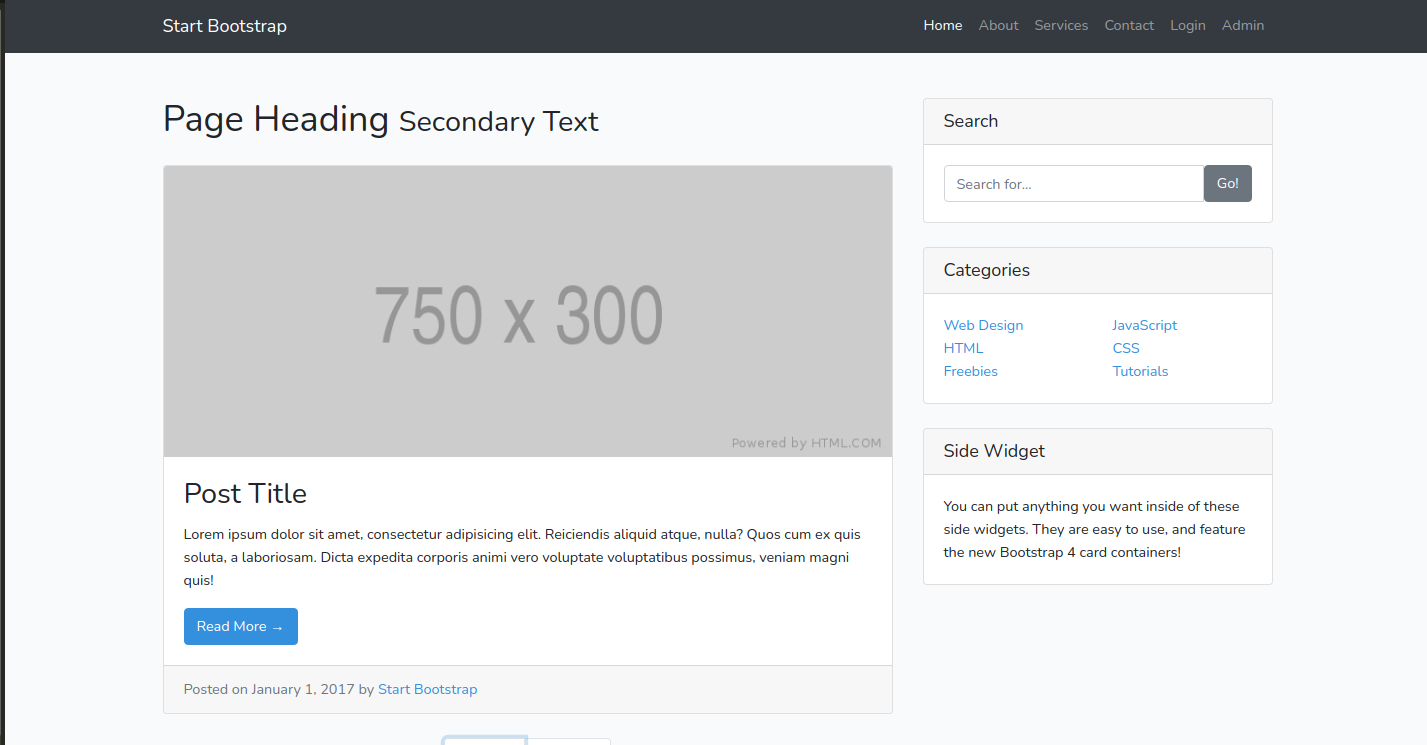
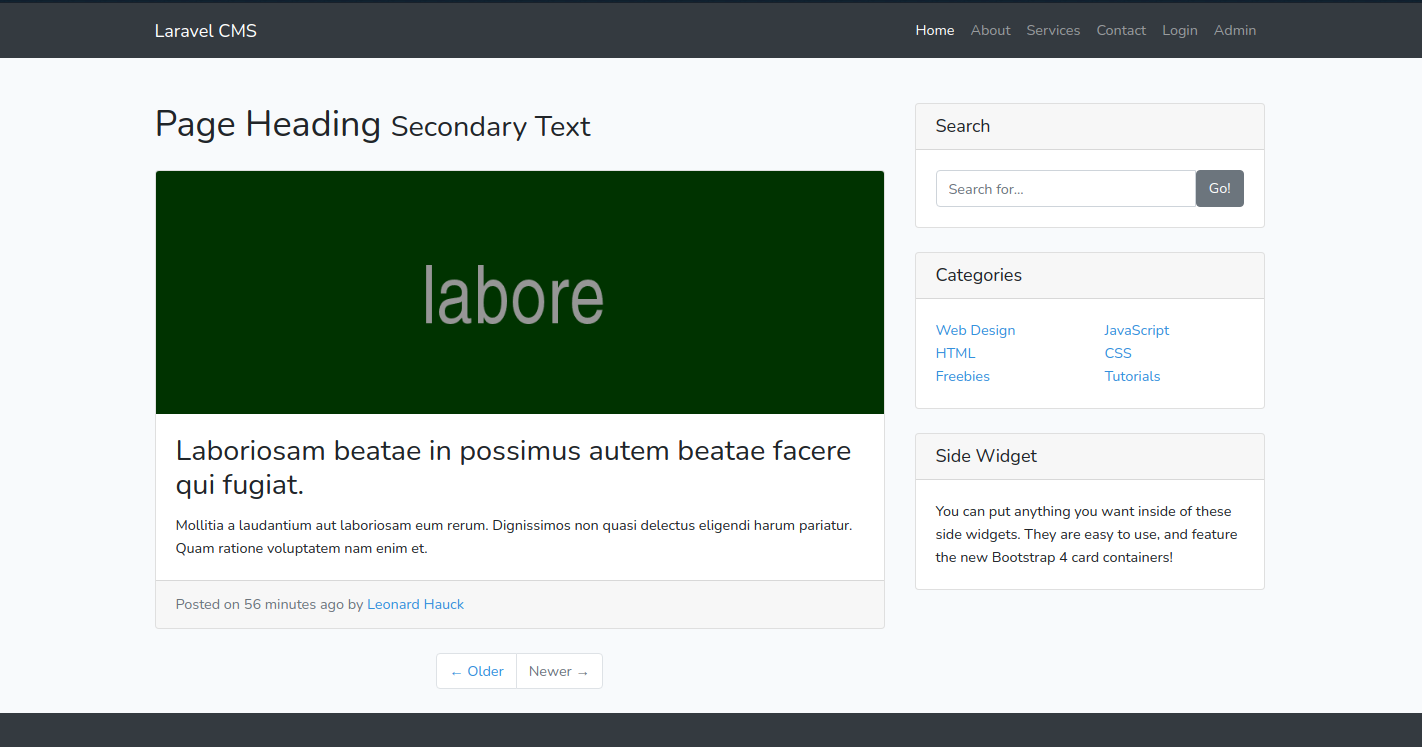
Creating a post from admin - Part 1

diff --git a/resources/views/components/admin-master.blade.php b/resources/views/components/admin-master.blade.php
@@ -9,7 +9,7 @@
   <meta name="description" content="">
   <meta name="author" content="">
 
-  <title>SB Admin 2 - Blank</title>
+  <title>Laravel CMS - Admin</title>
 
   <!-- Custom fonts for this template-->
   <link href="{{asset('vendor/fontawesome-free/css/all.min.css')}}" rel="stylesheet" type="text/css">
@@ -33,7 +33,7 @@
         <div class="sidebar-brand-icon rotate-n-15">
           <i class="fas fa-laugh-wink"></i>
         </div>
-        <div class="sidebar-brand-text mx-3">SB Admin <sup>2</sup></div>
+        <div class="sidebar-brand-text mx-3">Laravel <sup>CMS</sup></div>
       </a>
 
       <!-- Divider -->
@@ -41,7 +41,7 @@
 
       <!-- Nav Item - Dashboard -->
       <li class="nav-item">
-        <a class="nav-link" href="index.html">
+        <a class="nav-link" href="{{route('admin.index')}}">
           <i class="fas fa-fw fa-tachometer-alt"></i>
           <span>Dashboard</span></a>
       </li>
@@ -55,19 +55,7 @@
       </div>
 
       <!-- Nav Item - Pages Collapse Menu -->
-      <li class="nav-item">
-        <a class="nav-link collapsed" href="#" data-toggle="collapse" data-target="#collapseTwo" aria-expanded="true" aria-controls="collapseTwo">
-          <i class="fas fa-fw fa-cog"></i>
-          <span>Components</span>
-        </a>
-        <div id="collapseTwo" class="collapse" aria-labelledby="headingTwo" data-parent="#accordionSidebar">
-          <div class="bg-white py-2 collapse-inner rounded">
-            <h6 class="collapse-header">Custom Components:</h6>
-            <a class="collapse-item" href="buttons.html">Buttons</a>
-            <a class="collapse-item" href="cards.html">Cards</a>
-          </div>
-        </div>
-      </li>
+      <x-admin-sidebar-posts-links></x-admin-sidebar-posts-links>
 
       <!-- Nav Item - Utilities Collapse Menu -->
       <li class="nav-item">

diff --git a/resources/views/admin/posts/create.blade.php b/resources/views/admin/posts/create.blade.php
@@ -1,0 +1,26 @@
+<x-admin-master>
+	@section('content')
+		<h1>Create Post</h1>
+
+		<form method="POST" action="{{route('post.store')}}" enctype="multipart/form-data">
+			@csrf
+			<div class="form-group">
+				<label for="title">Title</label>
+				<input class="form-control" id="title" name="title" placeholder="Enter title"></input>				
+			</div>
+
+			<div class="form-group">
+				<label for="post-image">File</label>
+				<input class="form-control-file" type="file" name="post-image" id="post-image"></input>
+			</div>
+
+			<div class="form-group">
+				<label for="body">Content</label>
+				<textarea class="form-control" id="body" name="body"></textarea>
+			</div>
+
+			<button type="submit" class="btn btn-primary">Submit</button>
+
+		</form>
+	@endsection
+</x-admin-master>

diff --git a/routes/web.php b/routes/web.php
@@ -6,6 +6,16 @@ Auth::routes();
 
 Route::get('/', [App\Http\Controllers\HomeController::class, 'index'])->name('home');
 
-Route::get('/admin', [App\Http\Controllers\AdminController::class, 'index'])->name('admin.index');
-
 Route::get('/post/{post}', [App\Http\Controllers\PostController::class, 'show'])->name('post');
+
+
+
+Route::middleware('auth')->group(function(){
+
+	Route::get('/admin', [App\Http\Controllers\AdminController::class, 'index'])->name('admin.index');
+
+	Route::post('/admin/post', [App\Http\Controllers\PostController::class, 'store'])->name('post.store');
+
+	Route::get('/admin/post/create', [App\Http\Controllers\PostController::class, 'create'])->name('post.create');
+
+});

diff --git a/resources/views/components/admin-sidebar-posts-links.blade.php b/resources/views/components/admin-sidebar-posts-links.blade.php
@@ -1,0 +1,13 @@
+<li class="nav-item">
+  <a class="nav-link collapsed" href="#" data-toggle="collapse" data-target="#collapseTwo" aria-expanded="true" aria-controls="collapseTwo">
+    <i class="fas fa-fw fa-blog"></i>
+    <span>Posts</span>
+  </a>
+  <div id="collapseTwo" class="collapse" aria-labelledby="headingTwo" data-parent="#accordionSidebar">
+    <div class="bg-white py-2 collapse-inner rounded">
+      <h6 class="collapse-header">Posts</h6>
+      <a class="collapse-item" href="{{route('post.create')}}">Create a Post</a>
+      <a class="collapse-item" href="cards.html">Cards</a>
+    </div>
+  </div>
+</li>

diff --git a/database/seeders/DatabaseSeeder.php b/database/seeders/DatabaseSeeder.php
@@ -16,7 +16,7 @@ class DatabaseSeeder extends Seeder
         // \App\Models\User::factory(10)->create(); // works
 
 
-        \App\Models\Post::factory(1)->create(); // works
+        \App\Models\Post::factory(10)->create(); // works
 
 
         // factory('App\User', 10)->create(); // this fucking shit does not work because Laravel sucks

diff --git a/app/Http/Controllers/PostController.php b/app/Http/Controllers/PostController.php
@@ -11,4 +11,13 @@ class PostController extends Controller
 
         return view('post', ['post' => $post]);
     }
+
+    public function create() {
+        return view('admin.posts.create');
+    }
+
+    public function store() {
+        auth()->user();
+        return view('admin.posts.create');
+    }
 }

diff --git a/resources/views/admin/index.blade.php b/resources/views/admin/index.blade.php
@@ -2,7 +2,7 @@
 
   @section('content')
 
-    <h1 class="h3 mb-4 text-gray-800">Blank Page</h1>
+    <h1 class="h3 mb-4 text-gray-800">Dashboard</h1>
 
   @endsection
 
